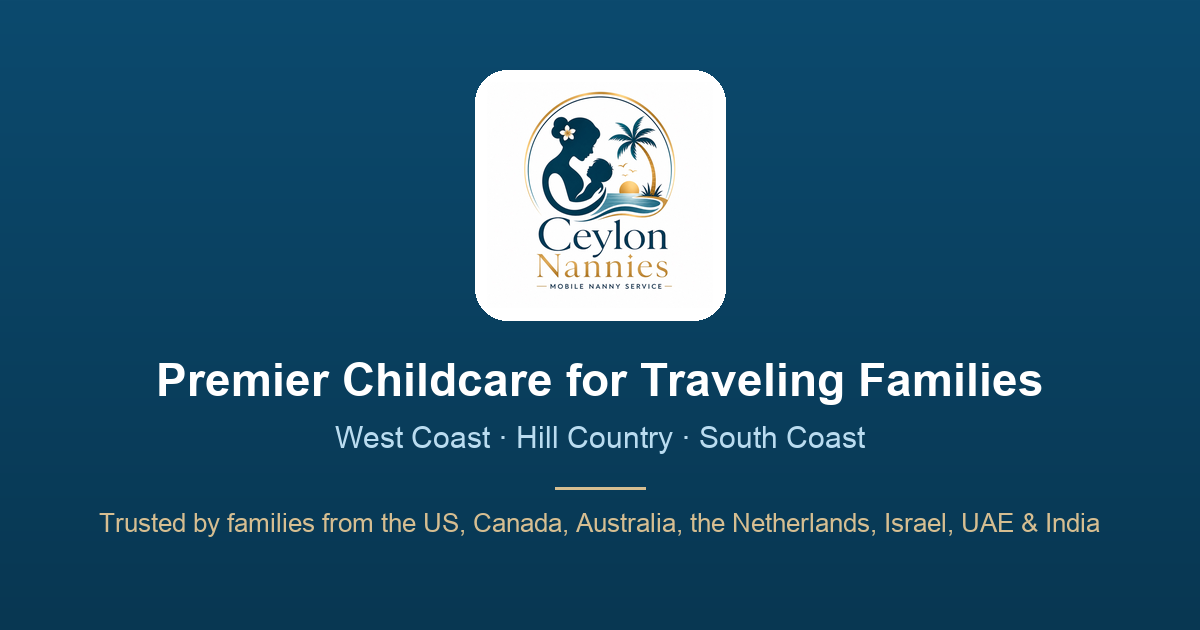
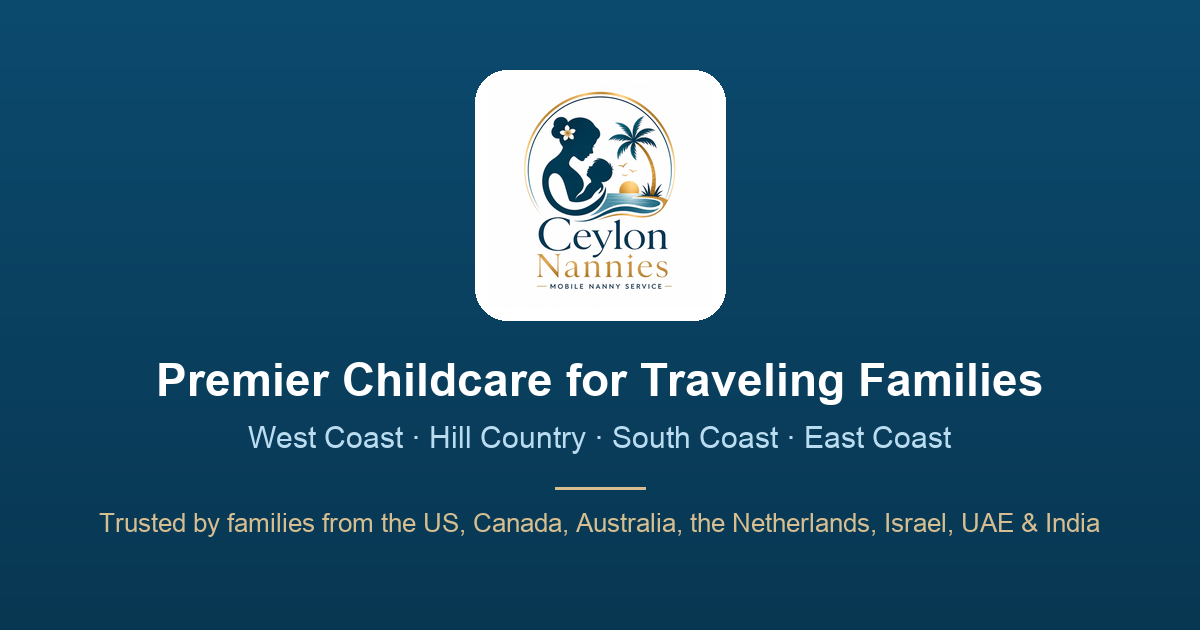
Replace Kandy with Arugam Bay; add East Coast as a 4th region
- Remove the /nanny-kandy page (never had a Kandy request); 301 redirect
  /nanny-kandy → / via new vercel.json
- New /nanny-arugam-bay landing page (East Coast region) — added to
  sitemap, footer, Areas section, JSON-LD areaServed
- Regions now: west coast · hill country (Ella) · south coast · east coast
  (Arugam Bay) — hero badge + subhead, footer, FAQ ("four regions"),
  About card "4 regions", careers, Our Story, homepage meta/keywords
- og-image.png: regions line now includes "East Coast"
- Areas We Serve: center each region's town cards (single-town groups no
  longer sit left-aligned)

Changed region(s): [[0.3392, 0.6635, 0.8017, 0.7238], [0.2158, 0.6635, 0.3083, 0.7238]]

diff --git a/src/lib/towns.ts b/src/lib/towns.ts
@@ -1,11 +1,11 @@
 // Town/city landing page data. One entry per page — the shared TownPage
 // template renders them all. South-coast towns use approved verbatim copy;
-// newer city pages (Colombo, Negombo, Kandy, Hambantota) use on-brand drafted copy.
+// newer city pages (Colombo, Negombo, Ella, Hambantota, Arugam Bay) use on-brand drafted copy.
 
 export type Town = {
   slug: string // e.g. 'nanny-galle' → /nanny-galle
   name: string // e.g. 'Galle'
-  region: 'South Coast' | 'Western' | 'Hill Country'
+  region: 'South Coast' | 'Western' | 'Hill Country' | 'East Coast'
   metaTitle: string
   metaDescription: string
   h1: string
@@ -186,23 +186,6 @@ export const TOWNS: Town[] = [
     ctaText: 'Message us on WhatsApp — we’re in Negombo',
   },
   {
-    slug: 'nanny-kandy',
-    name: 'Kandy',
-    region: 'Hill Country',
-    metaTitle: 'Nanny & Babysitter in Kandy, Sri Lanka — Hill-Country Childcare',
-    metaDescription:
-      'Premier English-speaking nanny service in Kandy. In-hotel and in-villa childcare near the lake, the Temple, and the hill country. Message us on WhatsApp for a quote.',
-    h1: 'Nanny & Babysitter in Kandy, Sri Lanka',
-    paragraphs: [
-      'Kandy is Sri Lanka’s cultural heart — the lake, the Temple of the Sacred Tooth, misty hills, and the cool green calm of the tea country all around. Families come for the history, the scenery, and the gentle change of pace from the coast.',
-      'But temple visits, cultural shows, and winding tea-country drives aren’t always toddler-friendly.',
-      'Our nanny comes to your hotel or villa anywhere in Kandy. Explore the Temple and the botanical gardens, enjoy a peaceful lakeside dinner, or take a day trip into the hills while your little one stays happy and rested on their own schedule — cared for by someone experienced, warm, and fluent in English.',
-      'We share your nanny’s details before your booking — with a quick video hello available if you’d like one — so there are no strangers on day one, your routines are followed exactly, and a video check-in on request lets you see your little one from wherever the day takes you.',
-      'Discover Kandy at your pace. We’ll keep the little ones content.',
-    ],
-    ctaText: 'Message us on WhatsApp — we’re in Kandy',
-  },
-  {
     slug: 'nanny-ella',
     name: 'Ella',
     region: 'Hill Country',
@@ -218,6 +201,23 @@ export const TOWNS: Town[] = [
       'Take in the view from the top. We’ll keep the little ones content below.',
     ],
     ctaText: 'Message us on WhatsApp — we’re in Ella',
+  },
+  {
+    slug: 'nanny-arugam-bay',
+    name: 'Arugam Bay',
+    region: 'East Coast',
+    metaTitle: 'Nanny & Babysitter in Arugam Bay, Sri Lanka — Surf-Town Childcare',
+    metaDescription:
+      'Premier English-speaking nanny service in Arugam Bay. In-hotel and in-villa childcare for surf sessions, safaris, and sunset dinners on Sri Lanka’s east coast. Message us on WhatsApp.',
+    h1: 'Nanny & Babysitter in Arugam Bay, Sri Lanka',
+    paragraphs: [
+      'Arugam Bay is Sri Lanka’s laid-back east-coast surf town — a long golden bay, the famous point break, elephants grazing by the lagoons, and a slow, barefoot rhythm that families fall for fast. From April to October, when the season swings east, there are few better places on the island to be.',
+      'And the best waves rarely wait for nap time.',
+      'Our nanny comes to your hotel, surf lodge, or villa anywhere around Arugam Bay. Paddle out at dawn, watch the sunset from Elephant Rock, or head off early to spot elephants at Kumana or the Pottuvil lagoon — while your little one stays happy and settled on their own schedule, cared for by someone warm, experienced, and fluent in English.',
+      'We share your nanny’s details before your booking — with a quick video hello available if you’d like one — so there are no strangers on day one. She follows your routines exactly, and a video check-in on request lets you see your little one from the beach, the lineup, or the lagoon.',
+      'Surf the point. We’ll take care of the little ones.',
+    ],
+    ctaText: 'Message us on WhatsApp — we’re in Arugam Bay',
   },
 ]
 

diff --git a/src/components/areas-we-serve.tsx b/src/components/areas-we-serve.tsx
@@ -2,12 +2,13 @@ import Link from 'next/link'
 import { TOWNS } from '@/lib/towns'
 import { SERVICE_AREAS } from '@/lib/constants'
 
-const REGION_ORDER = ['Western', 'Hill Country', 'South Coast'] as const
+const REGION_ORDER = ['Western', 'Hill Country', 'South Coast', 'East Coast'] as const
 
 const REGION_LABELS: Record<string, string> = {
   Western: 'Colombo & Western Coast',
   'Hill Country': 'Hill Country',
   'South Coast': 'South Coast',
+  'East Coast': 'East Coast',
 }
 
 export function AreasWeServe() {
@@ -26,7 +27,7 @@ export function AreasWeServe() {
           </h2>
           <p className="text-ocean-600 max-w-xl mx-auto">
             From the moment you land in Colombo to your last sunset in the south, our nannies
-            travel to your hotel, villa, or home across the west coast, hill country, and south coast.
+            travel to your hotel, villa, or home across the west coast, hill country, south coast, and east coast.
           </p>
         </div>
 
@@ -36,12 +37,12 @@ export function AreasWeServe() {
               <h3 className="text-sm font-semibold text-ocean-500 uppercase tracking-wider text-center mb-4">
                 {group.label}
               </h3>
-              <div className="grid grid-cols-2 sm:grid-cols-3 md:grid-cols-4 gap-3">
+              <div className="flex flex-wrap justify-center gap-3">
                 {group.towns.map((town) => (
                   <Link
                     key={town.slug}
                     href={`/${town.slug}`}
-                    className="group bg-white border border-ocean-100 hover:border-ocean-300 rounded-xl px-4 py-4 shadow-sm transition-colors"
+                    className="group w-[calc(50%-0.375rem)] sm:w-[calc(33.333%-0.5rem)] md:w-[calc(25%-0.5625rem)] bg-white border border-ocean-100 hover:border-ocean-300 rounded-xl px-4 py-4 shadow-sm transition-colors"
                   >
                     <span className="flex items-center justify-center gap-1.5 font-medium text-ocean-800">
                       {town.name}
@@ -83,8 +84,8 @@ export function AreasWeServe() {
         <p className="text-center text-xs text-ocean-300 mt-8 max-w-2xl mx-auto leading-relaxed">
           Ceylon Nannies provides premier English-speaking babysitter and nanny services across
           Sri Lanka. Whether you need a nanny in Colombo, a babysitter in Negombo, childcare in
-          Kandy or Ella, or a trusted nanny in Galle, Mirissa, Hiriketiya, Weligama, Unawatuna,
-          Tangalle, or Hambantota — we come to your hotel, villa, or home, with optional video
+          Ella, or a trusted nanny in Galle, Mirissa, Hiriketiya, Weligama, Unawatuna,
+          Tangalle, Hambantota, or Arugam Bay — we come to your hotel, villa, or home, with optional video
           check-ins available on request.
         </p>
       </div>

diff --git a/src/app/layout.tsx b/src/app/layout.tsx
@@ -8,12 +8,12 @@ const inter = Inter({ subsets: ['latin'] })
 
 export const metadata: Metadata = {
   metadataBase: new URL('https://www.ceylonnannies.com'),
-  title: 'Nanny & Babysitter in Sri Lanka — Premier In-Hotel Childcare | Colombo, Kandy, Galle & South Coast',
-  description: 'Premier English-speaking nanny and babysitter service across Sri Lanka. In-hotel, in-villa & in-home childcare in Colombo, Negombo, Kandy, Galle, Mirissa, Hiriketiya, Weligama, Unawatuna, Tangalle, Hambantota and more. Background-verified. Video check-ins on request. Book via WhatsApp.',
-  keywords: 'nanny sri lanka, babysitter sri lanka, nannies sri lanka, nanny colombo, babysitter colombo, nanny kandy, nanny ella, babysitter negombo, babysitter mirissa, nanny hiriketiya, babysitter weligama, nanny galle, childcare unawatuna, nanny hambantota, hotel babysitter sri lanka, nanny near me, babysitter near me, nanny service for kids, ceylon nannies',
+  title: 'Nanny & Babysitter in Sri Lanka — Premier In-Hotel Childcare | Colombo, Galle, Ella & Arugam Bay',
+  description: 'Premier English-speaking nanny and babysitter service across Sri Lanka. In-hotel, in-villa & in-home childcare in Colombo, Negombo, Ella, Galle, Mirissa, Hiriketiya, Weligama, Unawatuna, Tangalle, Hambantota and more. Background-verified. Video check-ins on request. Book via WhatsApp.',
+  keywords: 'nanny sri lanka, babysitter sri lanka, nannies sri lanka, nanny colombo, babysitter colombo, nanny ella, nanny arugam bay, babysitter arugam bay, babysitter negombo, babysitter mirissa, nanny hiriketiya, babysitter weligama, nanny galle, childcare unawatuna, nanny hambantota, hotel babysitter sri lanka, nanny near me, babysitter near me, nanny service for kids, ceylon nannies',
   openGraph: {
     title: 'Nanny & Babysitter in Sri Lanka — Premier In-Hotel Childcare',
-    description: 'Premier English-speaking nanny and babysitter service across Sri Lanka. Background-verified. Video check-ins on request. Colombo, Kandy, Galle, Mirissa, Hiriketiya & more.',
+    description: 'Premier English-speaking nanny and babysitter service across Sri Lanka. Background-verified. Video check-ins on request. Colombo, Galle, Mirissa, Arugam Bay, Hiriketiya & more.',
     url: 'https://ceylonnannies.com',
     siteName: 'Ceylon Nannies',
     locale: 'en_US',

diff --git a/src/components/structured-data.tsx b/src/components/structured-data.tsx
@@ -4,14 +4,13 @@ export function StructuredData() {
     '@context': 'https://schema.org',
     '@type': 'LocalBusiness',
     name: 'Ceylon Nannies',
-    description: 'Premier English-speaking nanny and babysitter service across Sri Lanka — Colombo, Kandy, Galle, and the south coast. In-hotel and in-villa childcare for traveling families. Video check-ins on request.',
+    description: 'Premier English-speaking nanny and babysitter service across Sri Lanka — Colombo, Galle, the south coast, Ella, and Arugam Bay. In-hotel and in-villa childcare for traveling families. Video check-ins on request.',
     url: 'https://ceylonnannies.com',
     telephone: '+14034044643',
     email: 'ceylonnannies@gmail.com',
     areaServed: [
       { '@type': 'City', name: 'Colombo, Sri Lanka' },
       { '@type': 'City', name: 'Negombo, Sri Lanka' },
-      { '@type': 'City', name: 'Kandy, Sri Lanka' },
       { '@type': 'City', name: 'Ella, Sri Lanka' },
       { '@type': 'City', name: 'Galle, Sri Lanka' },
       { '@type': 'City', name: 'Unawatuna, Sri Lanka' },
@@ -24,6 +23,7 @@ export function StructuredData() {
       { '@type': 'City', name: 'Matara, Sri Lanka' },
       { '@type': 'City', name: 'Tangalle, Sri Lanka' },
       { '@type': 'City', name: 'Hambantota, Sri Lanka' },
+      { '@type': 'City', name: 'Arugam Bay, Sri Lanka' },
     ],
     serviceType: 'Babysitter',
     priceRange: '$35-$99 USD',

diff --git a/src/app/careers/page.tsx b/src/app/careers/page.tsx
@@ -10,14 +10,15 @@ export const metadata: Metadata = {
     ? 'We\'re Hiring Childcare Professionals — Ceylon Nannies'
     : 'Join Our Team — Ceylon Nannies',
   description: HIRING_OPEN
-    ? 'Ceylon Nannies is hiring caring, English-speaking childcare professionals across Sri Lanka\'s west coast, hill country, and south coast. A warm, family-run premier service for travelling families.'
+    ? 'Ceylon Nannies is hiring caring, English-speaking childcare professionals across Sri Lanka\'s west coast, hill country, south coast, and east coast. A warm, family-run premier service for travelling families.'
     : 'Ceylon Nannies is a warm, family-run premier childcare service for travelling families in Sri Lanka. Join our waitlist of caring childcare professionals — we\'ll reach out when a spot opens near you.',
 }
 
 const HIRING_REGIONS = [
   { region: 'West Coast', places: 'Colombo & Negombo' },
-  { region: 'Hill Country', places: 'Kandy & Ella' },
+  { region: 'Hill Country', places: 'Ella' },
   { region: 'South Coast', places: 'Galle, Hikkaduwa, Hiriketiya, Mirissa, Tangalle & Hambantota' },
+  { region: 'East Coast', places: 'Arugam Bay' },
 ]
 
 const WHAT_YOULL_DO = [

diff --git a/src/components/hero.tsx b/src/components/hero.tsx
@@ -20,7 +20,7 @@ export function Hero() {
       <div className="relative max-w-4xl mx-auto px-4 text-center">
         <div className="inline-flex items-center gap-2 bg-ocean-100 text-ocean-800 px-4 py-1.5 rounded-full text-sm font-medium mb-6">
           <span className="w-2 h-2 bg-green-500 rounded-full animate-pulse" />
-Colombo · Kandy · Ella · South Coast
+Colombo · Ella · South Coast · Arugam Bay
         </div>
 
         <h1 className="text-4xl md:text-6xl font-bold text-ocean-950 leading-tight mb-5">
@@ -44,7 +44,7 @@ Colombo · Kandy · Ella · South Coast
         </div>
 
         <p className="text-lg md:text-xl text-ocean-700 max-w-2xl mx-auto mb-8 leading-relaxed">
-          Premier in-hotel nanny and babysitter service on Sri Lanka&apos;s west coast, hill country, and south coast. Video check-ins on request.
+          Premier in-hotel nanny and babysitter service on Sri Lanka&apos;s west coast, hill country, south coast, and east coast. Video check-ins on request.
           Enjoy your evening — they&apos;re in safe hands.
         </p>
 

diff --git a/src/components/faq.tsx b/src/components/faq.tsx
@@ -53,7 +53,7 @@ const faqs = [
   },
   {
     q: 'What if I\'m outside your service area?',
-    a: 'We currently serve three regions: the west coast (Colombo & Negombo), the hill country (Kandy & Ella), and the south coast (Galle through to Hambantota). Depending on your exact location within these areas, a small travel charge may apply. Staying somewhere else? Message us — if we can help or are expanding your way, we\'ll let you know honestly.',
+    a: 'We currently serve four regions: the west coast (Colombo & Negombo), the hill country (Ella), the south coast (Galle through to Hambantota), and the east coast (Arugam Bay). Depending on your exact location within these areas, a small travel charge may apply. Staying somewhere else? Message us — if we can help or are expanding your way, we\'ll let you know honestly.',
   },
 ]
 

diff --git a/src/components/about.tsx b/src/components/about.tsx
@@ -58,8 +58,8 @@ export function About() {
                 <div className="text-xs text-ocean-500 mt-1">Families we&apos;ve cared for</div>
               </div>
               <div className="bg-white rounded-xl p-5 shadow-sm border border-ocean-100">
-                <div className="text-2xl font-bold text-ocean-900">3 regions</div>
-                <div className="text-xs text-ocean-500 mt-1">West coast, hill country &amp; south coast</div>
+                <div className="text-2xl font-bold text-ocean-900">4 regions</div>
+                <div className="text-xs text-ocean-500 mt-1">West, south &amp; east coasts + hill country</div>
               </div>
             </div>
           </div>

diff --git a/src/components/our-story.tsx b/src/components/our-story.tsx
@@ -76,7 +76,7 @@ export function OurStory() {
 
             <p>
               Today, we serve families from Europe, Australia, North America, and beyond — across
-              Sri Lanka, from Colombo and Kandy to the south coast. Our nannies speak fluent English,
+              Sri Lanka, from Colombo and Ella to the south and east coasts. Our nannies speak fluent English,
               video check-ins let you see your little one anytime, and every booking comes with the
               same care and accountability we demand for our own family.
             </p>

diff --git a/src/components/footer.tsx b/src/components/footer.tsx
@@ -15,7 +15,7 @@ export function Footer() {
             </div>
             <p className="text-sm text-ocean-400 leading-relaxed">
               Premier childcare for traveling families — we come to your hotel, villa, or Airbnb across Sri Lanka&apos;s
-              west coast, hill country, and south coast. English service. Video check-ins on request.
+              west coast, hill country, south coast, and east coast. English service. Video check-ins on request.
             </p>
           </div>
 
